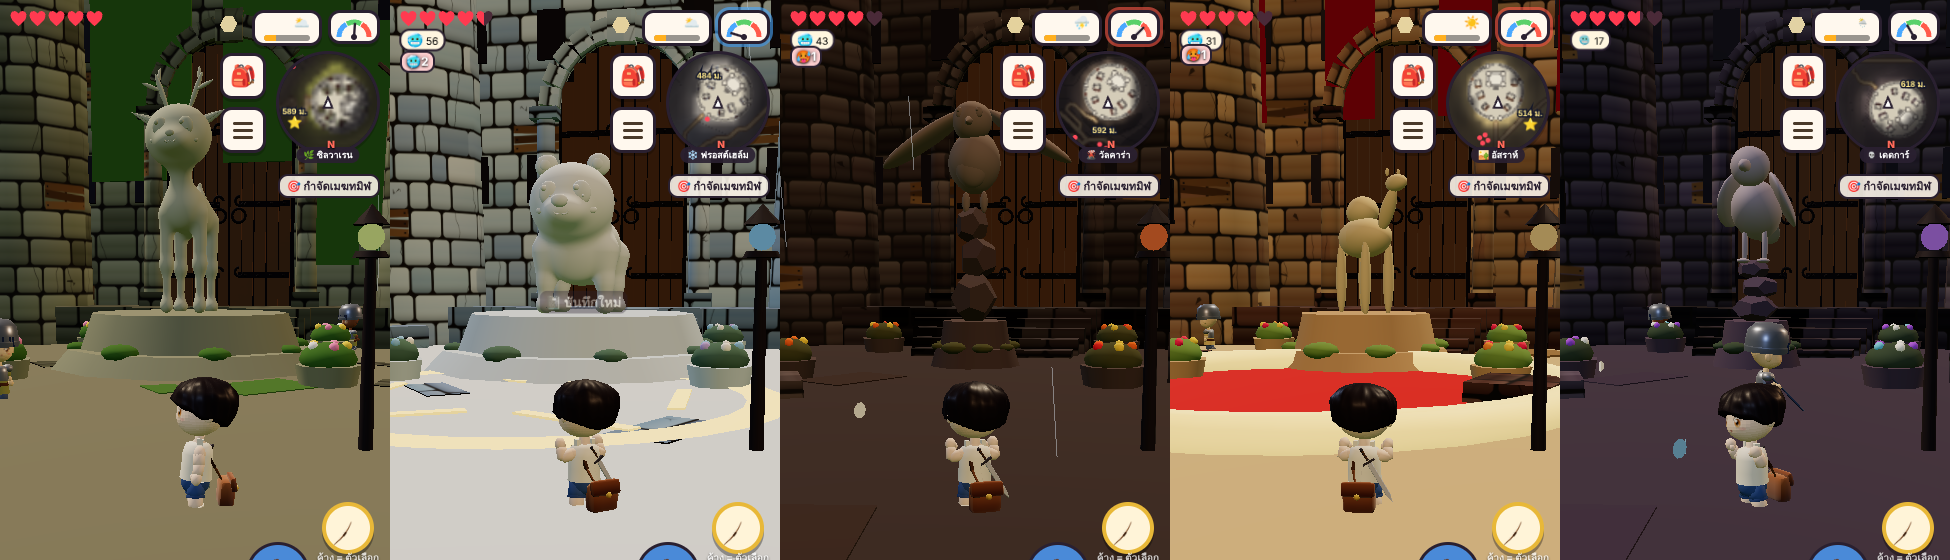
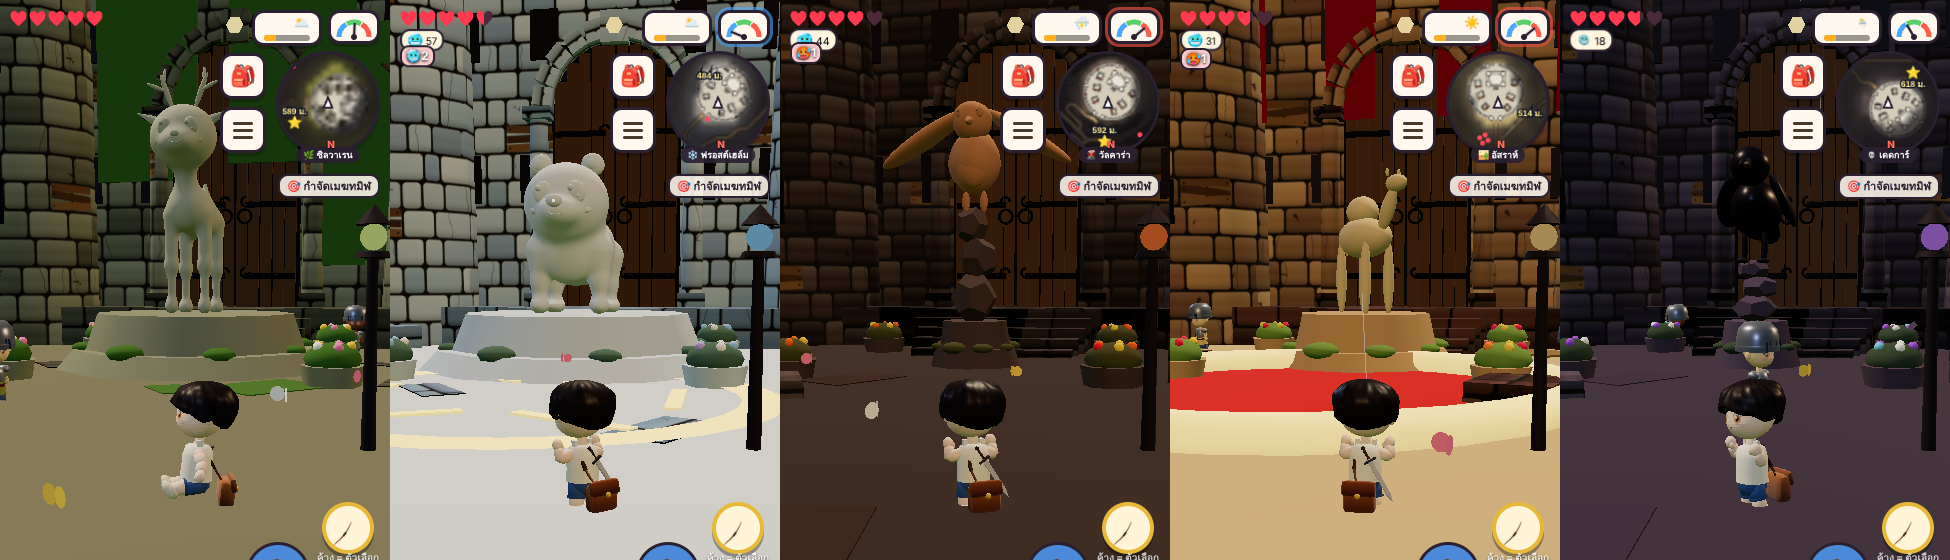
newgame: hawk statue in red sandstone, crow in glossy black stone with a faint purple glint at night
Claude-Session: https://claude.ai/code/session_01GPWeNez232vT9ersFNk7wt

diff --git a/newgame/src/main.js b/newgame/src/main.js
@@ -4797,7 +4797,7 @@ const STATUE_A = { camel(g) { const P = (p, z, r = [0, 0, 0]) => part(g, '#a8845
   owl(g) { const P = (p, z, r = [0, 0, 0]) => part(g, '#7a5a3a', '#c09a6a', p, z, r, { A: .03 }); P([0, .45, 0], [.28, .36, .26]); P([0, .92, .02], [.27, .22, .24]); for (const sx of [-1, 1]) { P([sx * .15, 1.15, 0], [.05, .1, .04], [0, 0, -sx * .35]); P([sx * .1, .95, .22], [.085, .085, .03]); P([sx * .27, .45, -.02], [.07, .3, .2], [0, 0, sx * .12]); P([sx * .09, .06, .1], [.06, .04, .08]) }
     P([0, .86, .26], [.035, .05, .04]); P([0, .2, -.25], [.12, .05, .1], [-.5, 0, 0]) } };
 function capPlaza(k, V, on) { if (V.plz) { scene.remove(V.plz); V.plz.traverse(o => { if (o.isMesh || o.isInstancedMesh) o.geometry.dispose() }); V.plz = null } const P = D.CAP_PLAZA[k]; if (!on || !P) return; const c = CAPS[k], g = new THREE.Group(), Lk = V.B.look;
-  const stone = new THREE.MeshStandardMaterial({ color: P.stone, roughness: .8, metalness: .03, emissive: '#ffcf80', emissiveIntensity: 0 }), moss = new THREE.MeshStandardMaterial({ color: P.bush || Lk.moss || '#4f7a34', roughness: .95 }), pl = new THREE.MeshStandardMaterial({ color: Lk.stone, roughness: .9 });
+  const stone = new THREE.MeshStandardMaterial({ color: P.stone, roughness: P.gloss ? .3 : .8, metalness: P.gloss ? .25 : .03, emissive: P.glint || '#ffcf80', emissiveIntensity: 0 }), moss = new THREE.MeshStandardMaterial({ color: P.bush || Lk.moss || '#4f7a34', roughness: .95 }), pl = new THREE.MeshStandardMaterial({ color: Lk.stone, roughness: .9 });
   const an = new THREE.Group(); (ANIMALS[P.animal] || STATUE_A[P.animal])(an); an.traverse(o => { if (o.isMesh) { o.material = stone; o.castShadow = !eco } });
   if (P.wings) an.traverse(o => { const r = o.userData.role; if (r === 'armL' || r === 'armR') { const sx = r === 'armL' ? -1 : 1; o.rotation.z = sx * P.wings; o.position.x += sx * .12; o.position.y += .14; o.scale.x *= 1.6 } });   /* 🦅 wings spread wide */
   an.scale.setScalar(P.scale); an.rotation.y = P.face || 0; an.updateMatrixWorld(true); const bb = new THREE.Box3().setFromObject(an), foot = Math.max(.45, Math.max(-bb.min.x, bb.max.x, -bb.min.z, bb.max.z));   /* v5.12 the plinth fits the statue (designer) */
@@ -4810,9 +4810,9 @@ function capPlaza(k, V, on) { if (V.plz) { scene.remove(V.plz); V.plz.traverse(o
     for (let j = 0; j < 5; j++) { const f = new THREE.Mesh(new THREE.SphereGeometry(.11, 6, 5), new THREE.MeshStandardMaterial({ color: P.flowers[j % P.flowers.length], roughness: .7 })); const fa = j / 5 * 6.283 + i; f.position.set(x + Math.cos(fa) * .38, .9, z + Math.sin(fa) * .38); g.add(f) } }   /* four planters */
   const up = new THREE.Mesh(new THREE.CircleGeometry(2.6, 28), new THREE.MeshBasicMaterial({ color: '#ffd890', transparent: true, opacity: 0, depthWrite: false, blending: THREE.AdditiveBlending })); up.rotation.x = -Math.PI / 2; up.position.y = .58; g.add(up);
   const beam = new THREE.Mesh(new THREE.CylinderGeometry(1.2, 1.7, top + P.scale * 1.4, 18, 1, true), new THREE.MeshBasicMaterial({ color: '#ffe0a0', transparent: true, opacity: 0, depthWrite: false, side: THREE.DoubleSide, blending: THREE.AdditiveBlending })); beam.position.y = (top + P.scale * 1.4) / 2 + .3; g.add(beam);   /* 🔦 the statue is lit from below at night */
-  g.position.set(c.x, c.h, c.z); g.rotation.y = c.ry; scene.add(g); g.userData.up = { stone, up, beam };
+  g.position.set(c.x, c.h, c.z); g.rotation.y = c.ry; scene.add(g); g.userData.up = { stone, up, beam, glint: !!P.glint };
   const L = [], co = Math.cos(c.ry), si = Math.sin(c.ry); for (let i = 0; i < P.lamps; i++) { const a = i / P.lamps * 6.283 + P.a0, lx = Math.cos(a) * P.r, lz = Math.sin(a) * P.r; if (lz < -7) continue; L.push({ x: c.x + lx * co + lz * si, z: c.z - lx * si + lz * co, y: c.h, py: c.h, k }) } const lg = lampGroup(L); g.add(lg); g.updateMatrixWorld(); lg.applyMatrix4(new THREE.Matrix4().copy(g.matrixWorld).invert()); V.plz = g; capPlazaLit(V) }
-function capPlazaLit(V) { const u = V.plz && V.plz.userData.up; if (!u) return; const n = nightK(); u.stone.emissiveIntensity = n * .14; u.up.material.opacity = n * .26; u.beam.material.opacity = n * .05 }
+function capPlazaLit(V) { const u = V.plz && V.plz.userData.up; if (!u) return; const n = nightK(); u.stone.emissiveIntensity = n * (u.glint ? .16 : .14); u.up.material.opacity = n * .26; u.beam.material.opacity = n * .05 }
 /* v3.30.2 the glowing doorway of a capital's keep: sealed by the dark until the kingdom is restored */
 function capDoor(k) { const K = KINGDOMS[k]; if (((S.restored || {})[k] || raided(k)) && CAPV[k] && CAPV[k].B) { const d = CAPV[k].B.door; return hinEnter({ castle: 'c2', ck: k, fl: 0, x: d[0], z: d[1] }) }   /* v4.77 a restored kingdom's keep: walk in */ sfx('knock'); toast((S.restored || {})[k] ? `🌈 ประตูของ${K.name} สงบลงแล้ว<br><small>ข้างในยังพังทลาย… วันหนึ่งผู้คนจะกลับมาซ่อมแซม</small>` : `🔒 ประตูถูกผนึกด้วยพลังมืด<br><small>ฟื้นฟู${K.name}ให้สำเร็จเพื่อคลายผนึก</small>`, 2600) }
 /* ================= v4.90 🏰 the captured castles (designer · docs/plan-kingdoms-inn.md) — walk in without repairs · monsters fill floors 1–2 · the captive waits in a cage on floor 2 · the mini-boss on floor 3 breaks out to the courtyard · beat it = the kingdom is restored ================= */

diff --git a/newgame/src/data.js b/newgame/src/data.js
@@ -374,9 +374,9 @@ export const HARB_STATUE = 'whale';   // v5.09 🗿 the harbour square statue: '
 export const CAP_PLAZA = {   // v5.12 🦌 restored capitals' squares: the statue's animal · its stone · planter flowers / bush · lamps (n · radius · start angle) · pillar = a rock crag under a bird
   sylvaren:  { animal: 'deer', scale: 2.3, stone: '#b4b8a8', flowers: ['#ffd84a', '#ff9ac8', '#ffffff'], lamps: 8, r: 11, a0: .39 },
   frosthelm: { animal: 'bear', scale: 2.0, stone: '#dfe8f0', flowers: ['#9fd4ff', '#ffffff', '#c8b8ff'], bush: '#5a7a6a', lamps: 8, r: 11, a0: .39 },
-  valkara:   { animal: 'hawk', scale: 3.4, wings: -.55, stone: '#8a7a72', flowers: ['#ff7a1a', '#ffd23f', '#ff4a2a'], bush: '#5a5a34', lamps: 8, r: 11, a0: .39, pillar: 2.6 },
+  valkara:   { animal: 'hawk', scale: 3.4, wings: -.55, stone: '#c08a62', flowers: ['#ff7a1a', '#ffd23f', '#ff4a2a'], bush: '#5a5a34', lamps: 8, r: 11, a0: .39, pillar: 2.6 },
   asrah:     { animal: 'camel', scale: 2.0, face: .7, stone: '#e0c89a', flowers: ['#ff4a6a', '#ffd84a', '#ff9a3a'], bush: '#7a9a4a', lamps: 8, r: 11, a0: .39 },
-  deadgar:   { animal: 'crow', scale: 3.3, stone: '#a8a0b4', flowers: ['#b06aff', '#ffffff', '#7ad8ff'], bush: '#4a5a4a', lamps: 8, r: 11, a0: .39, pillar: 1.4 } };
+  deadgar:   { animal: 'crow', scale: 3.3, stone: '#2a2632', gloss: 1, glint: '#3a1c6e', flowers: ['#b06aff', '#ffffff', '#7ad8ff'], bush: '#4a5a4a', lamps: 8, r: 11, a0: .39, pillar: 1.4 } };
 export const TOWN_LIGHT = { n: 6, r: 7.6, a0: .26 }, FOUNTAIN = { bowl: .95, top: 1.55 };   // v5.09 💡 lamps round the harbour square · 🌊 the fountain's jets (basin radius · how high they start)
 export const FIRE_REST = { en: 2, auto: 2500, crackle: 1400 };   // v4.99 🔥 (designer) sit by a lit fire: ⚡ ×en · standing still auto ms = sit down by itself · a crackle every ~ms
 export const PARRY2 = { tell: 380, win: 300, stun: 1100, counter: 2, cwin: 1600, stop: 220 };   // v5.00 🛡 (designer: game feel) B pressed ≤win ms before a hit = perfect parry: no damage · the foe staggers stun ms · your next hit within cwin ms ×counter
